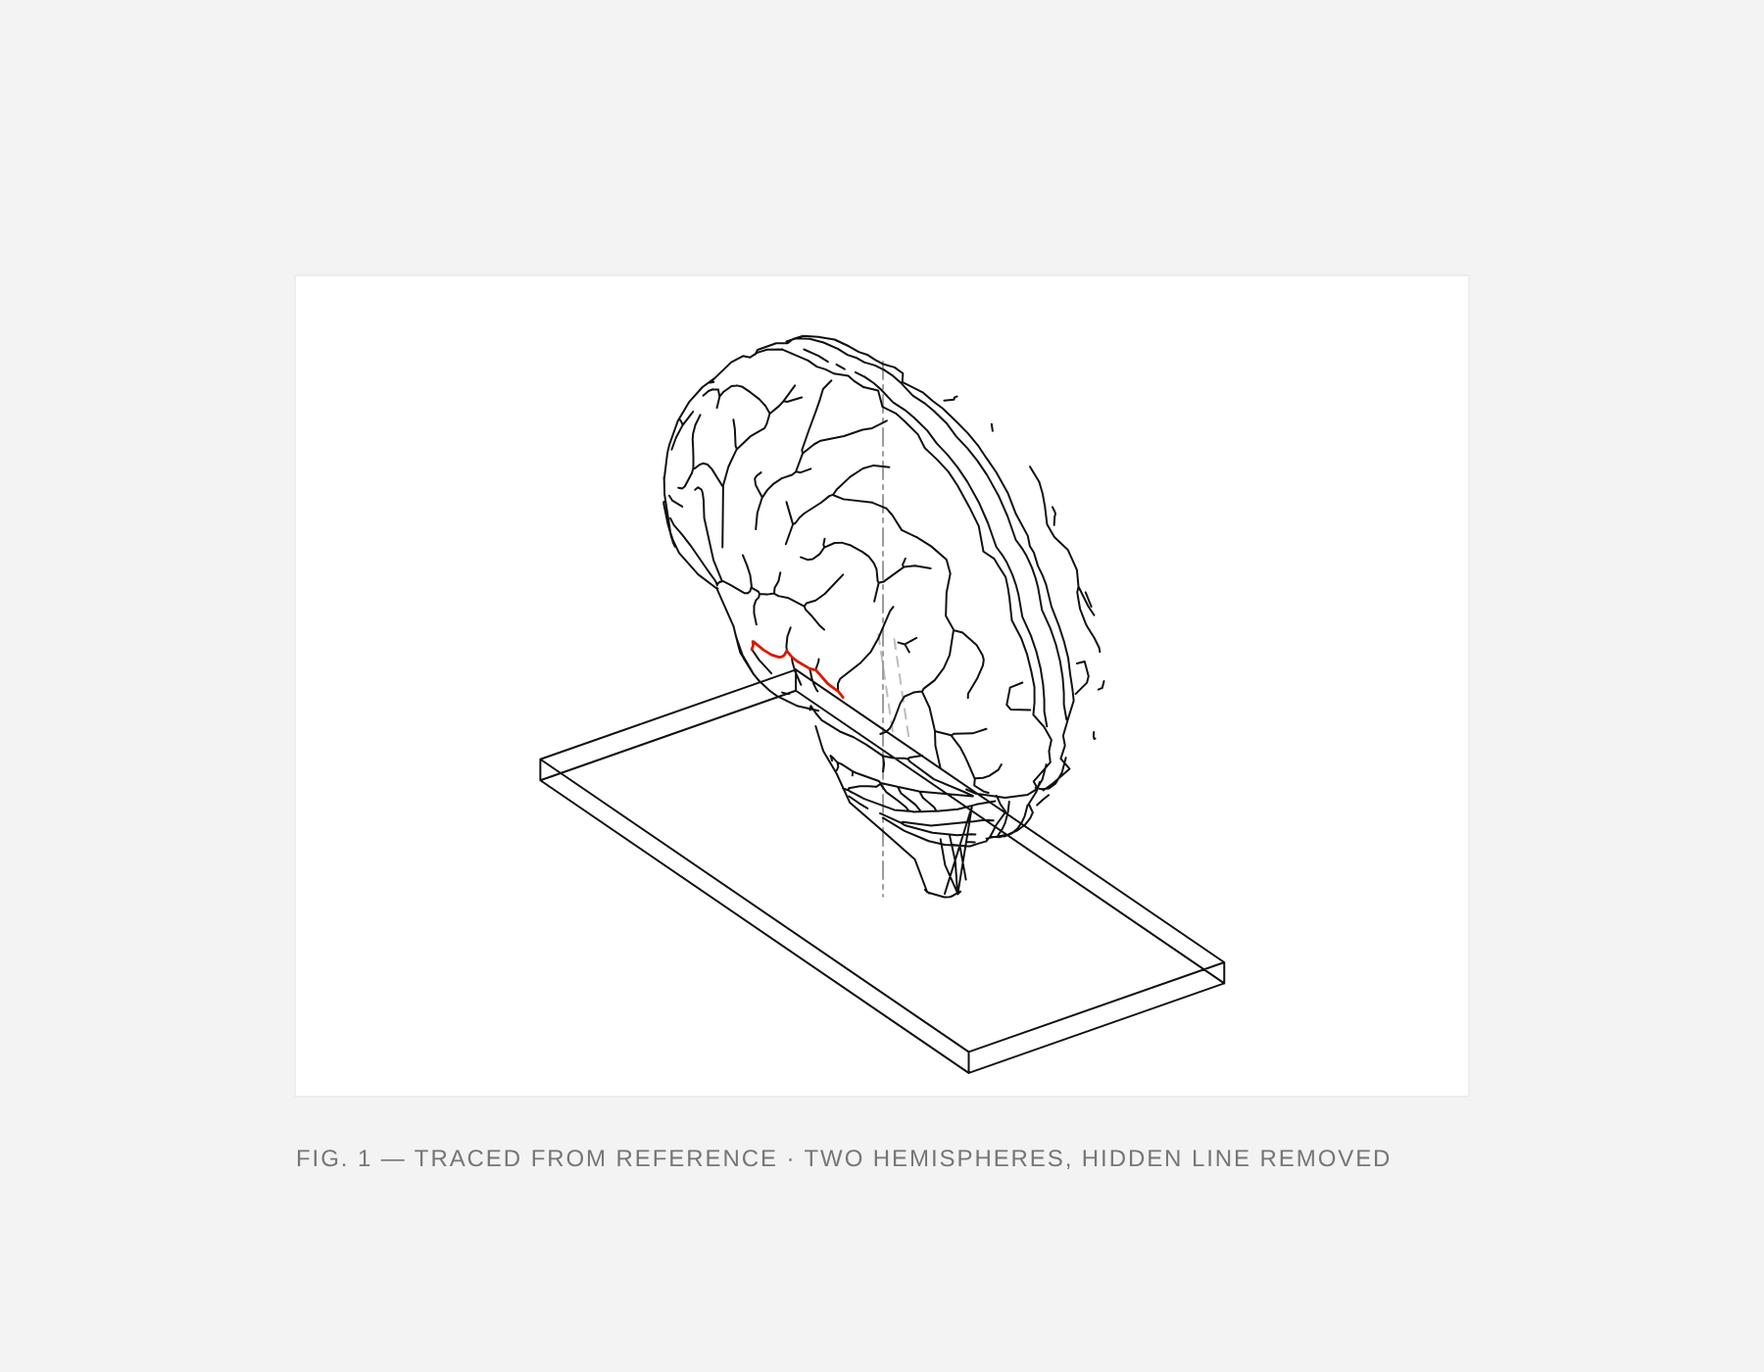
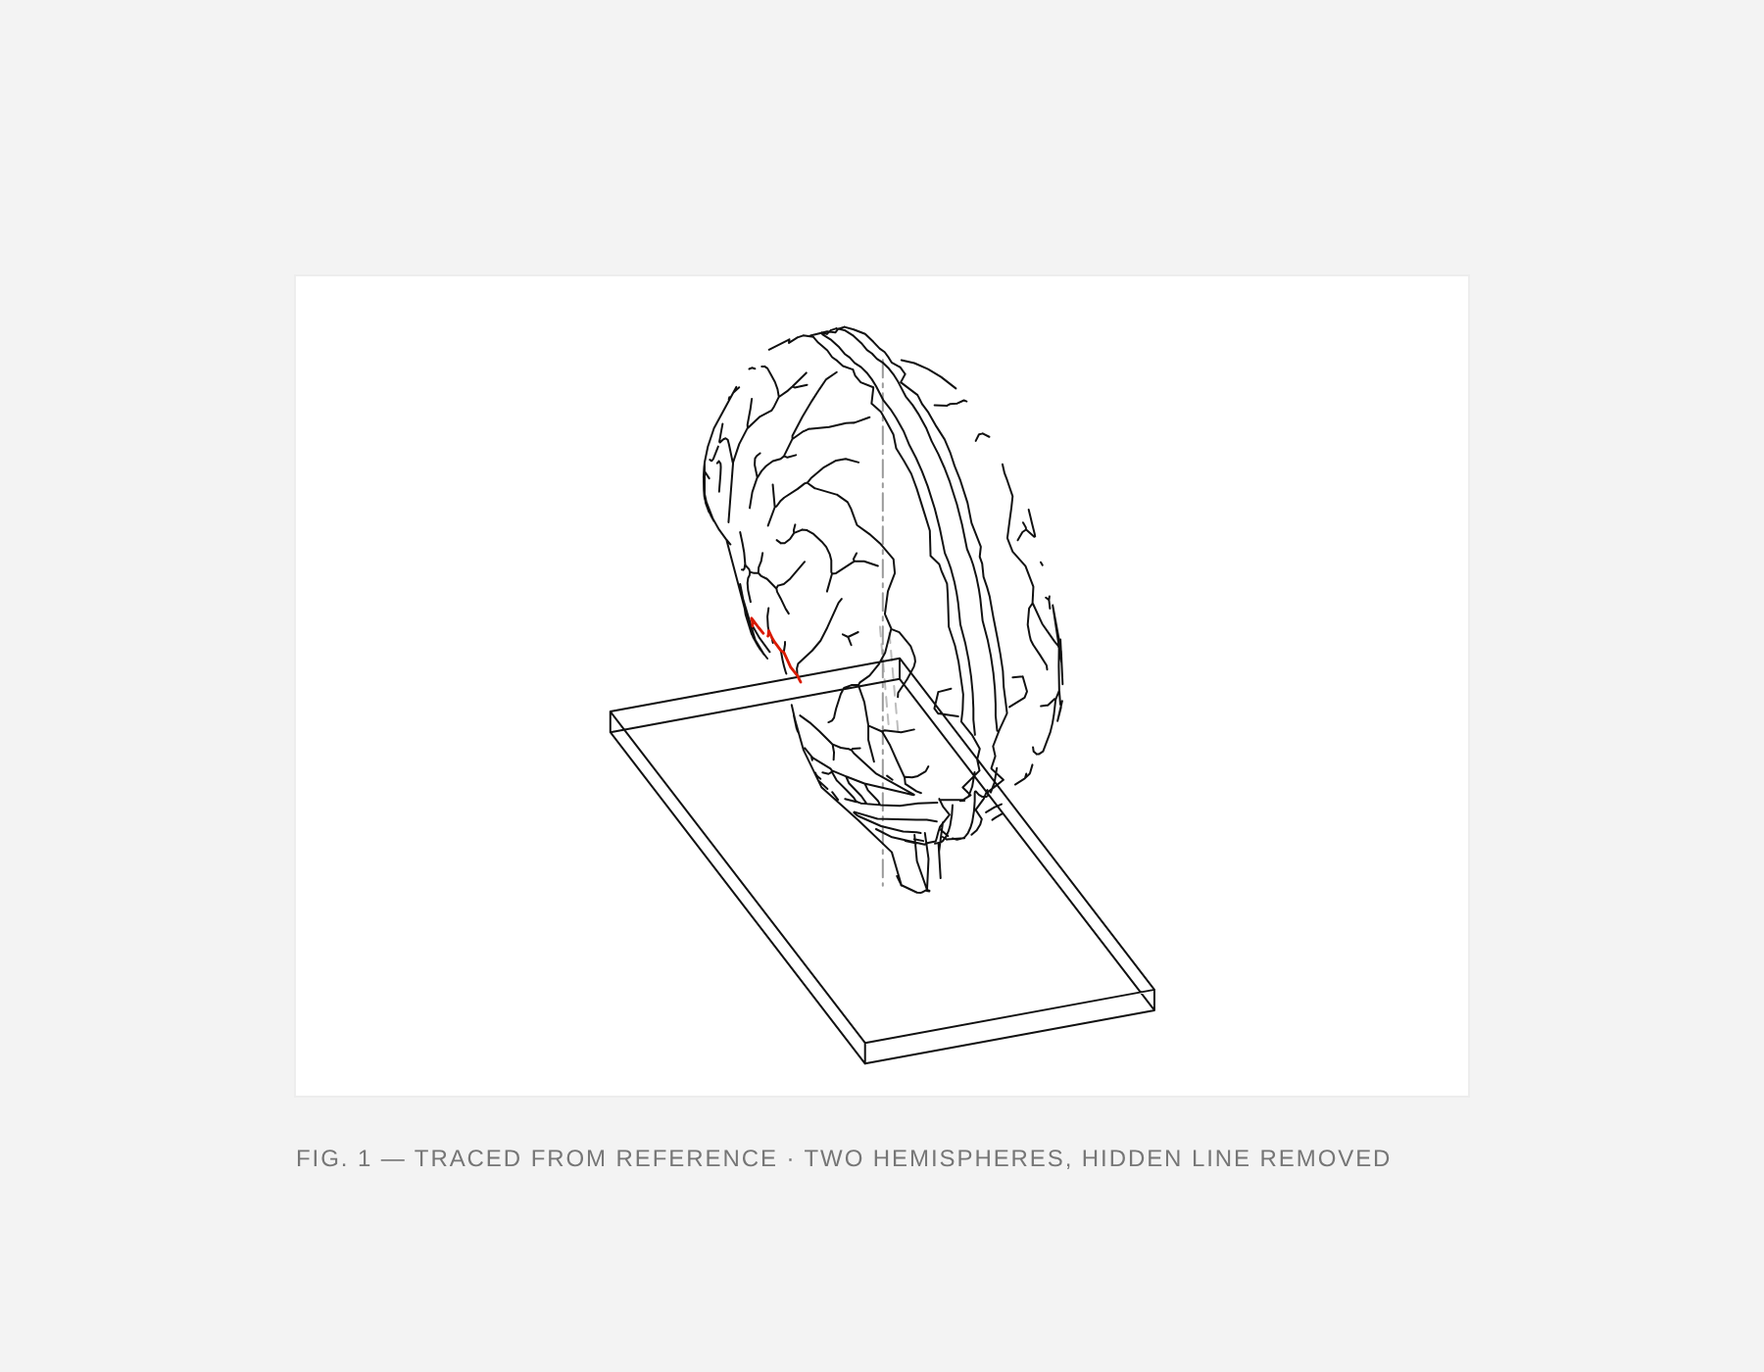
after #292 2026-09-21 — #292 — lane B3 — the brain turned back inline with its tray at the alternate's angle
Dave ruled B2's pair by eye: "two up alt is better but we need to orientate the brain so its
inline with the tray as it was before, but this is the right angle." Lane B3 answers it with
ONE constant moved and nothing else.

- notes/_lanes/289/illustration/brain.html — YAW0 −35° → −50°. PIT0, YAW_R, PIT_R, TAU, AOV,
  setView, the projection, the fit, the trace and the ink are all untouched. A PASS NINE
  comment block above the constant records the measurement and the cost.
- notes/_lanes/289/illustration/brain-v8.html — pass eight preserved byte-for-byte before
  the edit (v1…v7 already existed).
- notes/_lanes/289/illustration/brain-rest.png — refreshed beside the html, 900×700 @2×.
- notes/_lanes/292/B3/ — two-up.png (brain | gearbox at matched height, for the eye ruling),
  top-check.png (the pitch-88 plan proof), alt-body-23-tray-35.png (the alternate for Q1),
  axis-overlay.png, gearbox-rest.png.

THE DIAGNOSIS, AND WHY IT IS ONE CONSTANT. `a` is both the brain's front-back axis and the
tray's long axis — the tray is box(u, a, b) over the same `a` the trace runs along — so under
ONE camera the two long axes are parallel by construction at every yaw. B2's alternate was not
one camera: body at −50 with the tray held at −35 is a 15° rotation of the body about `b`
relative to the tray, and that relative rotation is the whole of the defect. The fix puts it
back to zero while LEAVING THE BODY WHERE THE ALTERNATE HAD IT — the tray follows the body to
[…]

diff --git a/notes/_lanes/289/illustration/brain-v8.html b/notes/_lanes/289/illustration/brain-v8.html
@@ -446,32 +446,7 @@ var TRACE = {"meta": {"source": "DAVE-REF-brain-side-view.png", "units": "cerebr
      with the tray unmoved. The profile foreshortens; that is the ask.
      ONE camera, not two: at -35 the body and the tray want the same yaw,
      so no per-body view matrix was introduced. */
-  /* PASS NINE (#292 lane B3) TAKES THE ALTERNATE, AS ONE CAMERA. Dave, on
-     B2's pair: "two up alt is better but we need to orientate the brain so
-     its inline with the tray as it was before, but this is the right
-     angle."
-     B2's alternate was NOT one camera: the body was drawn at -50 while the
-     tray was held at -35, a 15 deg rotation of the body about b RELATIVE
-     TO THE TRAY. `a` is both the brain's front-back axis and the tray's
-     long axis, so any non-zero relative yaw takes the brain's long axis
-     off the tray's long edge — in plan by the full 15 deg, and on screen
-     from a 5.4 deg residual to 14.8 deg. That is the thing Dave's eye
-     caught, and it is the ONLY defect the alternate introduced.
-     The fix is to put the relative rotation back to ZERO while leaving the
-     BODY exactly where the alternate had it: YAW0 -35 -> -50, and the tray
-     follows the body instead of the body following the tray. The brain is
-     pixel-identical to two-up-alt.png; the plate turns the 15 deg it
-     should always have turned with it. PIT0 / YAW_R / PIT_R / TAU / AOV /
-     setView / the projection / the fit are all untouched, and there is
-     still ONE view matrix, so the mouse orbit stays rigid.
-     MEASURED, pole-to-pole (a = -150.6 .. +149.4) against the plate's long
-     edge, both projected: v6 5.1 deg, v7 5.65, pass eight (-35) 5.40,
-     B2's alternate (-50 body / -35 tray) 14.81, pass nine (-50) 6.10. In
-     plan the same four are 0, 0, 0, 15.0, 0.
-     THE COST, for the ruling: the plate is no longer the gearbox's literal
-     -35. Its construction, proportion (2.35 : 1) and idiom are unchanged.
-     brain-v8.html keeps pass eight. */
-  var YAW0 = -50*Math.PI/180, PIT0 = 20*Math.PI/180;
+  var YAW0 = -35*Math.PI/180, PIT0 = 20*Math.PI/180;
   var YAW_R = 25*Math.PI/180, PIT_R = 12*Math.PI/180;
   var TAU = 1.0;
   var m00=1,m02=0,m10=0,m11=1,m12=0,m20=0,m21=0,m22=1;

diff --git a/notes/_subreports/2026-09-21-292-B3-brain-inline-with-tray.md b/notes/_subreports/2026-09-21-292-B3-brain-inline-with-tray.md
@@ -1,0 +1,199 @@
+# #292 lane B3 — the brain back inline with its tray, at the alternate's angle
+
+Dave, verbatim, on lane B2's pair: *"two up alt is better but we need to orientate the brain so
+its inline with the tray as it was before, but this is the right angle."*
+
+Read as: **the alternate's angle is accepted**; what is wrong is that the brain's long axis no
+longer runs along the tray's long edge. Restore the alignment without moving the angle.
+
+## WHAT LANDED
+
+- `notes/_lanes/289/illustration/brain.html` — **one constant moved, nothing else.**
+  `YAW0 −35° → −50°`. `PIT0`, `YAW_R`, `PIT_R`, `TAU`, `AOV`, `setView`, the projection, the
+  fit, the trace, the ink: all untouched. A PASS NINE comment block above the constant records
+  the measurement and the cost.
+- `notes/_lanes/289/illustration/brain-v8.html` — pass eight preserved byte-for-byte before the
+  edit. v1…v7 already existed; v8 is the next number.
+- `notes/_lanes/289/illustration/brain-rest.png` — refreshed beside the html, 900×700 @2×.
+- `notes/_lanes/292/B3/two-up.png` — **brain (shipped, −50/20) | gearbox (−35/20)**, matched
+  height, for the eye ruling.
+- `notes/_lanes/292/B3/top-check.png` — the **plan proof**, pitch 88, B2's alternate beside pass
+  nine. Left: the body's footprint sits 15° skew inside the plate. Right: it sits square.
+- `notes/_lanes/292/B3/alt-body-23-tray-35.png` — the **alternate for the ruling** (see Q1):
+  tray held at the gearbox's −35, body rotated to −23.43 in the model.
+- `notes/_lanes/292/B3/axis-overlay.png` — v7 / pass eight / B2's alternate / pass nine, each
+  with the body's pole-to-pole axis (red) and the plate's long edge (blue) drawn over it.
+- `notes/_lanes/292/B3/gearbox-rest.png` — the gearbox half as rendered.
+- **The deck was NOT touched.** Its brain copy is separate and stale by design; reported below.
+
+**The diagnosis, and why it is one constant.** `a` is *both* the brain's front-back axis *and*
+the tray's long axis — the tray is `box(u, a, b)` over the same `a` the trace runs along. So
+under **one** camera the two long axes are parallel by construction, at every yaw. B2's
+alternate was not one camera: it drew the body at −50 while holding the tray at −35, which is a
+**15° rotation of the body about `b` relative to the tray**. That relative rotation is the whole
+of the defect, and it is the only thing the alternate introduced. The fix is to put it back to
+zero **while leaving the body exactly where the alternate had it** — so the tray follows the
+body to −50, rather than the body being dragged back to −35 (which is pass eight, the frame
+Dave did not pick). The brain in `two-up.png` is pixel-identical to `two-up-alt.png`'s brain.
+
+**The rotation was computed, not eyeballed.** Rendering `brain.html` with `YAW0` swept in 10°
+steps and the tray split off showed the plate's screen angle depends only on the tray's yaw and
+the body's pole line only on the body's yaw; the residual is minimised at zero relative yaw.
+Confirmed by the plan render, where the footprint is square in the plate to within the line
+width.
+
+## MEASURED
+
+Projection is orthographic and identical in the brain and the gearbox: `sx = cos(yaw)·a +
+sin(yaw)·u`, `sy = sin(pit)sin(yaw)·a + cos(pit)·b − sin(pit)cos(yaw)·u`, drawn as `y = OY −
+sy·SC`. Two angles follow in closed form.
+
+- **plate long edge**, screen: `atan2(−sin(pit)·sin(yaw_tray), cos(yaw_tray))`
+- **body long axis**, screen: pole to pole, frontal `a = −150.63` → occipital `a = +149.37`
+  (`Δa = 299.97`, `Δb = −26.73`), i.e. `atan2(−(sin(pit)sin(yaw_body)·Δa + cos(pit)·Δb),
+  cos(yaw_body)·Δa)`
+
+| | body yaw | tray yaw | body axis | plate edge | **screen residual** | **plan split** | eye·a |
+|---|---|---|---|---|---|---|---|
+| pass six (`brain-v6`) | 10 (pit 8) | 10 | — | — | **5.1°** | 0° | −0.17 |
+| pass seven (`brain-v7`) | +35 | +35 | −7.82° | −13.47° | **5.65°** | 0° | −0.54 |
+| pass eight (`brain-v8`, B2 shipped) | −35 | −35 | +18.87° | +13.47° | **5.40°** | 0° | +0.54 |
+| **B2's alternate** (`two-up-alt.png`) | **−50** | **−35** | +28.27° | +13.47° | **14.81°** | **15.0°** | +0.72 |
+| **pass nine (shipped)** | **−50** | **−50** | +28.27° | +22.18° | **6.10°** | **0°** | +0.72 |
+| alternate for the ruling (Q1) | −23.43 | −35 | +13.45° | +13.47° | **0.01°** | 11.6° | +0.37 |
+
+- Every frame the eye has accepted sits at a **5–6° screen residual**; the frame Dave rejected
+  sits at **14.8°**, and it is the only one with a non-zero plan split. Pass nine puts both back:
+  **6.10° screen, 0° plan**, against pass seven's 5.65° / 0°.
+- **`eye·a = +0.72`** — the back is turned *further* towards us than pass eight's +0.54, which is
+  what the alternate bought and what Dave kept. The eye vector is
+  `(−cos(pit)sin(yaw), sin(pit), cos(pit)cos(yaw))` in `(a, b, u)`.
+- **Body foreshortening**, `sqrt(1 − (eye·a)²)`: pass seven 0.842, pass eight 0.842, pass nine
+  **0.694**. The brain is 18% shorter on screen than at −35. It is the price of the extra
+  back-turn and it is in the frame Dave picked.
+- **Plate plan proportion is unchanged** — `366 : 156.4 = 2.34 : 1` against the gearbox's
+  `404 : 172 = 2.35 : 1`. `AOV` stayed at 33. Only the yaw moved.
+- **Plate screen angle** moved `+13.47° → +22.18°`; the gearbox's stays at `+13.47°`.
+- Candidate poses rendered and judged: **51** — a 36-frame body-yaw sweep at 10° with the tray
+  split off (silhouette PCA and tray-aligned bounding box measured on each), plus 15 full frames.
+- Blob PCA of the body silhouette was tried as the alignment metric and **discarded**: at every
+  useful yaw the brain's elongation is 1.0–1.3, so the principal axis is noise. The pole line
+  against the plate edge is the metric in the table, and the plan render is the check on it.
+
+## RULING-SHAPED QUESTIONS
+
+1. **The plate is no longer the gearbox's literal −35, and that was Dave's own earlier ask**
+   (*"lets angle the tray on the brain to be the same as the cogs"*, #292 B2). Pass nine keeps
+   the plate's construction, proportion and idiom but turns it 15° further round with the body,
+   because "inline" and "the alternate's body angle" cannot both hold with the plate pinned at
+   −35 — the two are the same axis. The alternate that keeps the plate at −35 is
+   `alt-body-23-tray-35.png`: tray at the gearbox's −35, body at −23.43, screen residual 0.01°,
+   and the brain reads lengthwise along the plate the way pass six and seven did. Its costs are
+   an **11.6° plan split** (the footprint sits skew in the plate, as B2's alternate did) and a
+   **second view matrix** for the orbit. **Dave: plate follows the brain to −50 (shipped), or
+   plate holds the cogs' −35 and the brain turns 11.6° in its own axes (alternate)?**
+2. **The brain overhangs the plate's near-right edge at −50.** At the shorter on-screen length
+   the body's silhouette runs past the plate's corner. Geometrically it still rests on the plate
+   — the lowest rim point is `b = −176.6`, the plate top `b = −178.6` — but the far edge crosses
+   the cerebellum and the near edge the temporal lobe, unchanged from pass eight. **Dave: widen
+   `AOV` past 33 so the plate reads as catching the body, or leave the proportion matched to the
+   gearbox's 2.35 : 1?**
+3. **The silhouette solver still speckles on the far rim**, and slightly more at −50 than at −35
+   — short detached dashes along the occipital edge where the facing test flips. Same mechanism
+   as pass six's doubled outline, reopened by the foreshortening. Solver question, not an angle
+   question; left alone. **Dave: worth a lane?** (carried from B2 Q3, unruled)
+4. **Tray thickness is still 12 against the gearbox's 14.** Not asked for, not moved. (carried
+   from B2 Q4, unruled)
+5. **The deck is now three passes out of step with the drawing file** — see below.
+
+## COUNTS:
+
+- Files edited: **1** (`brain.html`). Constants changed **1** (`YAW0`). Geometry **0**,
+  `setView` / projection / fit **0**, trace **0**, ink **0**. View matrices still **1**.
+- Files created: **6** — `brain-v8.html`, `292/B3/two-up.png`, `292/B3/top-check.png`,
+  `292/B3/alt-body-23-tray-35.png`, `292/B3/axis-overlay.png`, `292/B3/gearbox-rest.png`.
+  Plus `brain-rest.png` refreshed in place.
+- Candidate poses rendered and measured: **51**.
+- Deck IIFEs carrying their own `YAW0`/`PIT0`: **8**. Seven rest at `−35 / 20`. The brain, at
+  L3012, still rests at `10 / 8` and its `AOV` at L2976 is still `12`.
+- Books and gearbox files: **0 edits** (the deck was read for the `gb` canvas only).
+- Git: **not touched** (no add, no commit, no status-changing command).
+- `_build_all.py`: **not run**. `GOOD-MORNING.md`, `_CHAIN.md`, `_LIVE-STATE.md`, `_state.json`,
+  `_rulings.json`, the deck: **not edited**.
+
+## REPLAY-THESE:
+
+```bash
+cd /sessions/<seat>/mnt/UX-design
+export TMPDIR=/dev/shm
+export LD_LIBRARY_PATH=$PWD/outputs/syslibs/usr/lib/aarch64-linux-gnu
+# once per box — the plain form dies on the TLS-intercepting proxy with
+# UNABLE_TO_GET_ISSUER_CERT_LOCALLY, and no headless_shell ships on this seat:
+NODE_TLS_REJECT_UNAUTHORIZED=0 python3 -m playwright install chromium-headless-shell
+```
+
+**Chromium cannot read `/dev/shm` on this seat** — `file:///dev/shm/...` returns
+`ERR_FILE_NOT_FOUND` even though the file is there. Scratch HTML for a render has to live under
+the repo mount. Bash calls are also independent here, so `/dev/shm` is empty again on the next
+call: generate the scratch files and render them **in one call**.
+
+```python
+from playwright.sync_api import sync_playwright
+import base64
+R="<repo>"; ILL=R+"/notes/_lanes/289/illustration"; B3=R+"/notes/_lanes/292/B3"
+with sync_playwright() as p:
+    br=p.chromium.launch(args=["--no-sandbox"])
+    pg=br.new_page(viewport={"width":900,"height":700},device_scale_factor=2)
+    pg.goto("file://%s/brain.html"%ILL,wait_until="load"); pg.wait_for_timeout(2800)
+    pg.screenshot(path=ILL+"/brain-rest.png"); pg.close()
+    # the gearbox lives ONLY in the deck and is drawn off-screen at x=-3000,
+    # so an element screenshot captures the wrong slide — read the canvas instead.
+    pg=br.new_page(viewport={"width":1440,"height":900},device_scale_factor=2)
+    pg.goto("file://%s/notes/_DEMO-SLIDES-apollo-2026-09-20-v12.html"%R,wait_until="load")
+    pg.wait_for_timeout(5000)
+    d=pg.evaluate("()=>{const c=document.getElementById('gb');return c&&c.toDataURL('image/png');}")
+    open(B3+"/gearbox-rest.png","wb").write(base64.b64decode(d.split(",")[1]))
+    br.close()
+```
+
+**The two angles, in four lines** — no render needed to re-derive the table:
+
+```python
+import math
+P=math.radians(20); DA=299.97; DB=-26.73          # pole to pole, frontal -150.63 -> occipital +149.37
+tray = lambda Yt: math.degrees(math.atan2(-math.sin(P)*math.sin(math.radians(Yt)), math.cos(math.radians(Yt))))
+pole = lambda Yb: math.degrees(math.atan2(-(math.sin(P)*math.sin(math.radians(Yb))*DA + math.cos(P)*DB),
+                                          math.cos(math.radians(Yb))*DA))
+# residual = abs(pole(body_yaw) - tray(tray_yaw));  plan split = abs(body_yaw - tray_yaw)
+```
+
+**The split-camera patch** (for the Q1 alternate, and for any future body/tray split) is a
+save/restore of the view matrix around the `HOUSING.forEach` block in the collect pass, with
+`yawOff`/`pitOff` added to *both* yaws so the mouse orbit stays rigid:
+
+```js
+var __sv=[m00,m02,m10,m11,m12,m20,m21,m22];
+setView((-35)*Math.PI/180 + yawOff, PIT0 + pitOff);
+HOUSING.forEach(...);                       // unchanged
+m00=__sv[0];m02=__sv[1];m10=__sv[2];m11=__sv[3];m12=__sv[4];m20=__sv[5];m21=__sv[6];m22=__sv[7];
+```
+
+That patch is **not** in the shipped file — pass nine is one camera. Plan renders are the same
+scratch copy with `PIT0` at 88. Alternate rest poses need no file edit at all:
+`window.brSet(yawOffDeg, pitOffDeg)` parks the view and redraws; offsets beyond `YAW_R = 25°`
+fall outside the fit sweep and can clip.
+
+**Fonts were not set up** (`knowledge/_render/seat_env.sh` still fails `envdir absent` —
+`outputs/_render-env-229` does not exist at this seat), so the labels in these PNGs are in a
+fallback face. Irrelevant to an angle ruling; do not read type quality off them.
+
+**THE DECK CARRIES ITS OWN COPY — NOT EDITED, AS BRIEFED.**
+`notes/_DEMO-SLIDES-apollo-2026-09-20-v12.html` inlines the brain IIFE with its own constants,
+still at pass six:
+
+- **L3012** — `var YAW0 = 10*Math.PI/180, PIT0 = 8*Math.PI/180;`
+- **L2976** — `var HALF = (2*WMAX+GMAX)*1.15, AOV = 12;`
+
+If Dave rules pass nine in, the deck needs `10 → −50`, `8 → 20`, `12 → 33` at those two lines —
+**by whoever owns the deck.** If he rules the Q1 alternate in instead, the deck needs `−35 / 20`
+plus the split patch above, which is a structural change and not a constant swap.

diff --git a/_CHAIN.md b/_CHAIN.md
@@ -110,11 +110,11 @@
 
 ## ⬛ OPEN WORK — GENERATED from `_state.json`. **The row count IS the count.**
 
-> **753 items · 646 live · 354 Dave's · 292 mine · 739 carry a stated close condition · **14 UNCONDITIONED**.**
+> **754 items · 647 live · 354 Dave's · 293 mine · 740 carry a stated close condition · **14 UNCONDITIONED**.**
 > *Every figure in this block is computed from the store at generation time. No number here was typed by anyone — that is the point of it (#86 measured a typed inventory of "118 markers" against a real ~40; #85's "95 slots / 84 distinct" is not reproducible by any probe in this repo).*
 > ⚠ **DECLARED DEBT — 14 inherited items have NO close condition and therefore cannot close.** They are exempt as a FROZEN set (`_state.LEGACY_IDS`, size 19) which may only shrink; a NEW item is refused without one. **Each needs Dave's word — an agent inventing a close condition for his open work is the same overreach as inventing his ruling.**
 >
-> **DAVE'S (354) — 354 with a ratified `closes_when`, 0 with NONE · MINE (292). IDS, BODIES AND CLOSE CONDITIONS ARE IN THE STORE, NEVER HERE (s227-D2 shape, ids cut `s241-D2`): the counts above are the inventory; the rows are one command away, named on the next line.**
+> **DAVE'S (354) — 354 with a ratified `closes_when`, 0 with NONE · MINE (293). IDS, BODIES AND CLOSE CONDITIONS ARE IN THE STORE, NEVER HERE (s227-D2 shape, ids cut `s241-D2`): the counts above are the inventory; the rows are one command away, named on the next line.**
 >
 > ⚠ store gate: **PASS**. Bodies, conditions and provenance: `python3 knowledge/_state.py`.
 

diff --git a/notes/_lanes/292/DAVE-RULINGS-2026-09-21.md b/notes/_lanes/292/DAVE-RULINGS-2026-09-21.md
@@ -27,3 +27,8 @@
 > We need time to go over the dashboard, next time can we use the cold brief we will be doing the demo with rather than the Ai platform one
 
 *(attached: the gearbox render as the angle guide. Read: lane B's brain reading was WRONG and is not accepted; books and gearbox untouched. Brain: tray to match the gearbox's tray angle; brain turned so its BACK faces the viewer. Dashboard: review deferred; the NEXT one-shot runs on the demo's cold brief, not the AI-platform brief — a standing note for #293.)*
+
+> cool, two up alt is better but we need to orientate the brain so its inline with the tray as it was before, but this is the right angle.
+> the slide is great for now, wrap when you're ready
+
+*(Read: the ALT camera (body −50 / tray −35) is the right angle — ACCEPTED BY EYE; the brain must then be turned so its long axis runs inline with the tray's long axis, as it did before B2. Deck v13 with the map at 10A: "great for now" — accepted as placeholder. Wrap called.)*
